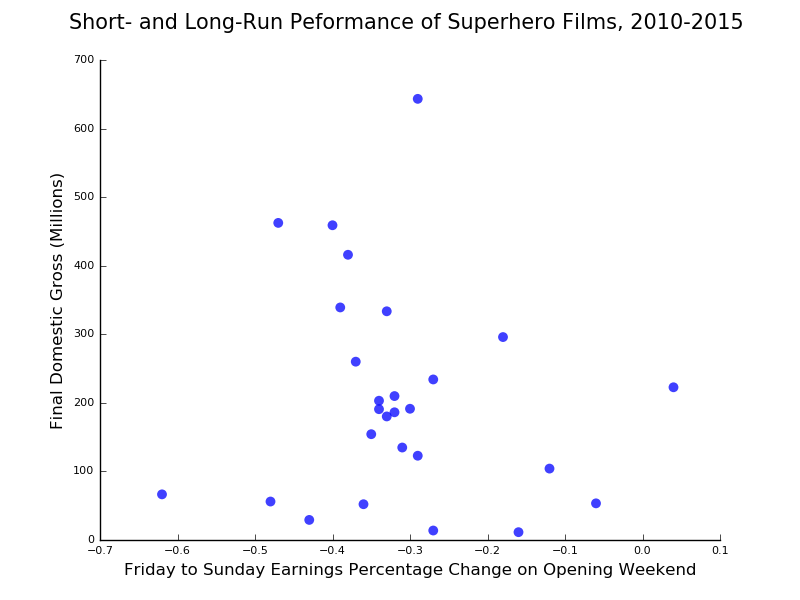
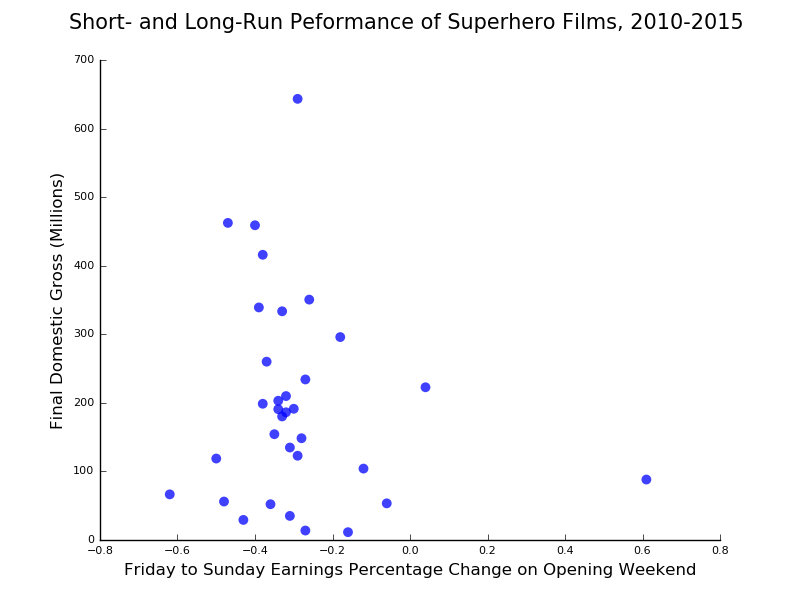
Adding more data points from 2008,2009

diff --git a/batman-supes.py b/batman-supes.py
@@ -3,19 +3,19 @@ import pandas as pd
 import matplotlib.pyplot as plt
 import statsmodels.formula.api as smf
 
-movies = ["Fantastic Four","The Dark Knight Rises","Kick-Ass 2", "Avengers: Age of Ultron", "Iron Man 3", "Captain America: Winter Soldier", "X-Men: First Class", "The Amazing Spider-Man 2", "Thor", "Ant-Man","Guardians of the Galaxy","Captain America: First Avenger","Thor: The Dark World","The Wolverine","TMNT (2014)", "Green Lantern","Marvel's The Avengers","X-Men: Days of Future Past","Green Hornet","Ghost Rider: Spirit of Vengeance","Big Hero 6","Man of Steel","Chronicle","Dredd","Kick-Ass","Jonah Hex","Iron Man 2"]
+movies = ["Fantastic Four","The Dark Knight Rises","Kick-Ass 2", "Avengers: Age of Ultron", "Iron Man 3", "Captain America: Winter Soldier", "X-Men: First Class", "The Amazing Spider-Man 2", "Thor", "Ant-Man","Guardians of the Galaxy","Captain America: First Avenger","Thor: The Dark World","The Wolverine","TMNT (2014)", "Green Lantern","Marvel's The Avengers","X-Men: Days of Future Past","Green Hornet","Ghost Rider: Spirit of Vengeance","Big Hero 6","Man of Steel","Chronicle","Dredd","Kick-Ass","Jonah Hex","Iron Man 2","X-Men Origins: Wolverine","Watchmen","Push","Jumper","Iron Man","The Incredible Hulk"]
 
-release_year = ["2015","2012","2013","2015","2013","2014","2011","2014","2011","2015","2014","2011","2013","2013","2014","2011","2012","2014","2011","2012","2014","2013","2012","2012","2010","2010","2010"]
+release_year = ["2015","2012","2013","2015","2013","2014","2011","2014","2011","2015","2014","2011","2013","2013","2014","2011","2012","2014","2011","2012","2014","2013","2012","2012","2010","2010","2010","2009","2009","2009","2008","2008","2008"]
 
-first_fri = [11.28,75.8,5.83,84.4,68.9,36.9,21.4,35.2,25.5,22.6,37.8,25.7,31.9,20.7,25.6,21.4,80.8,35.5,11.1,6.9,15.8,44.03,8.65,2.2,7.6,1.9,51.2]
+first_fri = [11.28,75.8,5.83,84.4,68.9,36.9,21.4,35.2,25.5,22.6,37.8,25.7,31.9,20.7,25.6,21.4,80.8,35.5,11.1,6.9,15.8,44.03,8.65,2.2,7.6,1.9,51.2,34.4,24.5,3.5,6.6,35.2,21.4]
 
-first_sun = [5.83,40.2,3.31,50.3,43,23.4,14,23.3,16.9,15.1,25.5,17.4,21.8,14.3,17.8,15.1,57.1,26,9.8,6.5,16.4,36.3,3.25,1.6,4.9,1.6,31.1]
+first_sun = [5.83,40.2,3.31,50.3,43,23.4,14,23.3,16.9,15.1,25.5,17.4,21.8,14.3,17.8,15.1,57.1,26,9.8,6.5,16.4,36.3,3.25,1.6,4.9,1.6,31.1,21.3,12.3,2.4,10.6,26,15.5]
 
-opening = [25.6,160.8,13.3,191.2,174.1,95,55.1,91.6,65.7,57.2,94.3,65,85.7,53.1,65.5,53.1,207.4,90.8,33.5,22.1,56.2,116.6,22,6.27,19.8,5.37,128.1]
+opening = [25.6,160.8,13.3,191.2,174.1,95,55.1,91.6,65.7,57.2,94.3,65,85.7,53.1,65.5,53.1,207.4,90.8,33.5,22.1,56.2,116.6,22,6.27,19.8,5.37,128.1,85,55.2,10,27.3,98.6,55.4]
 
-final_gross = [56.1,448.1,28.8,459,409,259.8,146.4,202.9,181,180.2,333.2,176.7,206.4,132.6,191.2,116.6,623.4,233.9,98.8,51.8,222.5,291,64.5,13.4,48,10.5,312]
+final_gross = [56.1,448.1,28.8,459,409,259.8,146.4,202.9,181,180.2,333.2,176.7,206.4,132.6,191.2,116.6,623.4,233.9,98.8,51.8,222.5,291,64.5,13.4,48,10.5,312,179.8,107.5,31.8,80.1,318.4,134.8]
 
-critics = [.09,.87,.30,.75,.79,.89,.87,.53,.77,.80,.91,.79,.67,.70,.21,.26,.92,.91,.43,.17,.89,.56,.85,.78,.76,.12,.72]
+critics = [.09,.87,.30,.75,.79,.89,.87,.53,.77,.80,.91,.79,.67,.70,.21,.26,.92,.91,.43,.17,.89,.56,.85,.78,.76,.12,.72,.38,.65,.23,.16,.94,.67]
 
 d = { "Release Year" : pd.Series(release_year, index=movies),
       "FirstFridayGross" : pd.Series(first_fri, index=movies),
@@ -27,7 +27,19 @@ d = { "Release Year" : pd.Series(release_year, index=movies),
 df = pd.DataFrame(d)
 
 # calculating earnings in 2015 dollars
-# inflation, 2010 = 8.7%, 2011 = 5.4%, 2012 = 3.2%, 2013 = 1.7%, 2014 = 0.1%
+# inflation, 2008 = 10.1%, 2009 = 10.5%, 2010 = 8.7%, 2011 = 5.4%, 2012 = 3.2%, 2013 = 1.7%, 2014 = 0.1%
+
+# 2008
+df.ix[df['Release Year'] == '2008','FirstFridayGross'] = df.ix[df['Release Year'] == '2008','FirstFridayGross'] * 1.101
+df.ix[df['Release Year'] == '2008','FirstSundayGross'] = df.ix[df['Release Year'] == '2008','FirstSundayGross'] * 1.101
+df.ix[df['Release Year'] == '2008','OpeningWeekend'] = df.ix[df['Release Year'] == '2008','OpeningWeekend'] * 1.101
+df.ix[df['Release Year'] == '2008','FinalGross'] = df.ix[df['Release Year'] == '2008','FinalGross'] * 1.101
+
+# 2009
+df.ix[df['Release Year'] == '2009','FirstFridayGross'] = df.ix[df['Release Year'] == '2009','FirstFridayGross'] * 1.105
+df.ix[df['Release Year'] == '2009','FirstSundayGross'] = df.ix[df['Release Year'] == '2009','FirstSundayGross'] * 1.105
+df.ix[df['Release Year'] == '2009','OpeningWeekend'] = df.ix[df['Release Year'] == '2009','OpeningWeekend'] * 1.105
+df.ix[df['Release Year'] == '2009','FinalGross'] = df.ix[df['Release Year'] == '2009','FinalGross'] * 1.105
 
 # 2010
 df.ix[df['Release Year'] == '2010','FirstFridayGross'] = df.ix[df['Release Year'] == '2010','FirstFridayGross'] * 1.087
